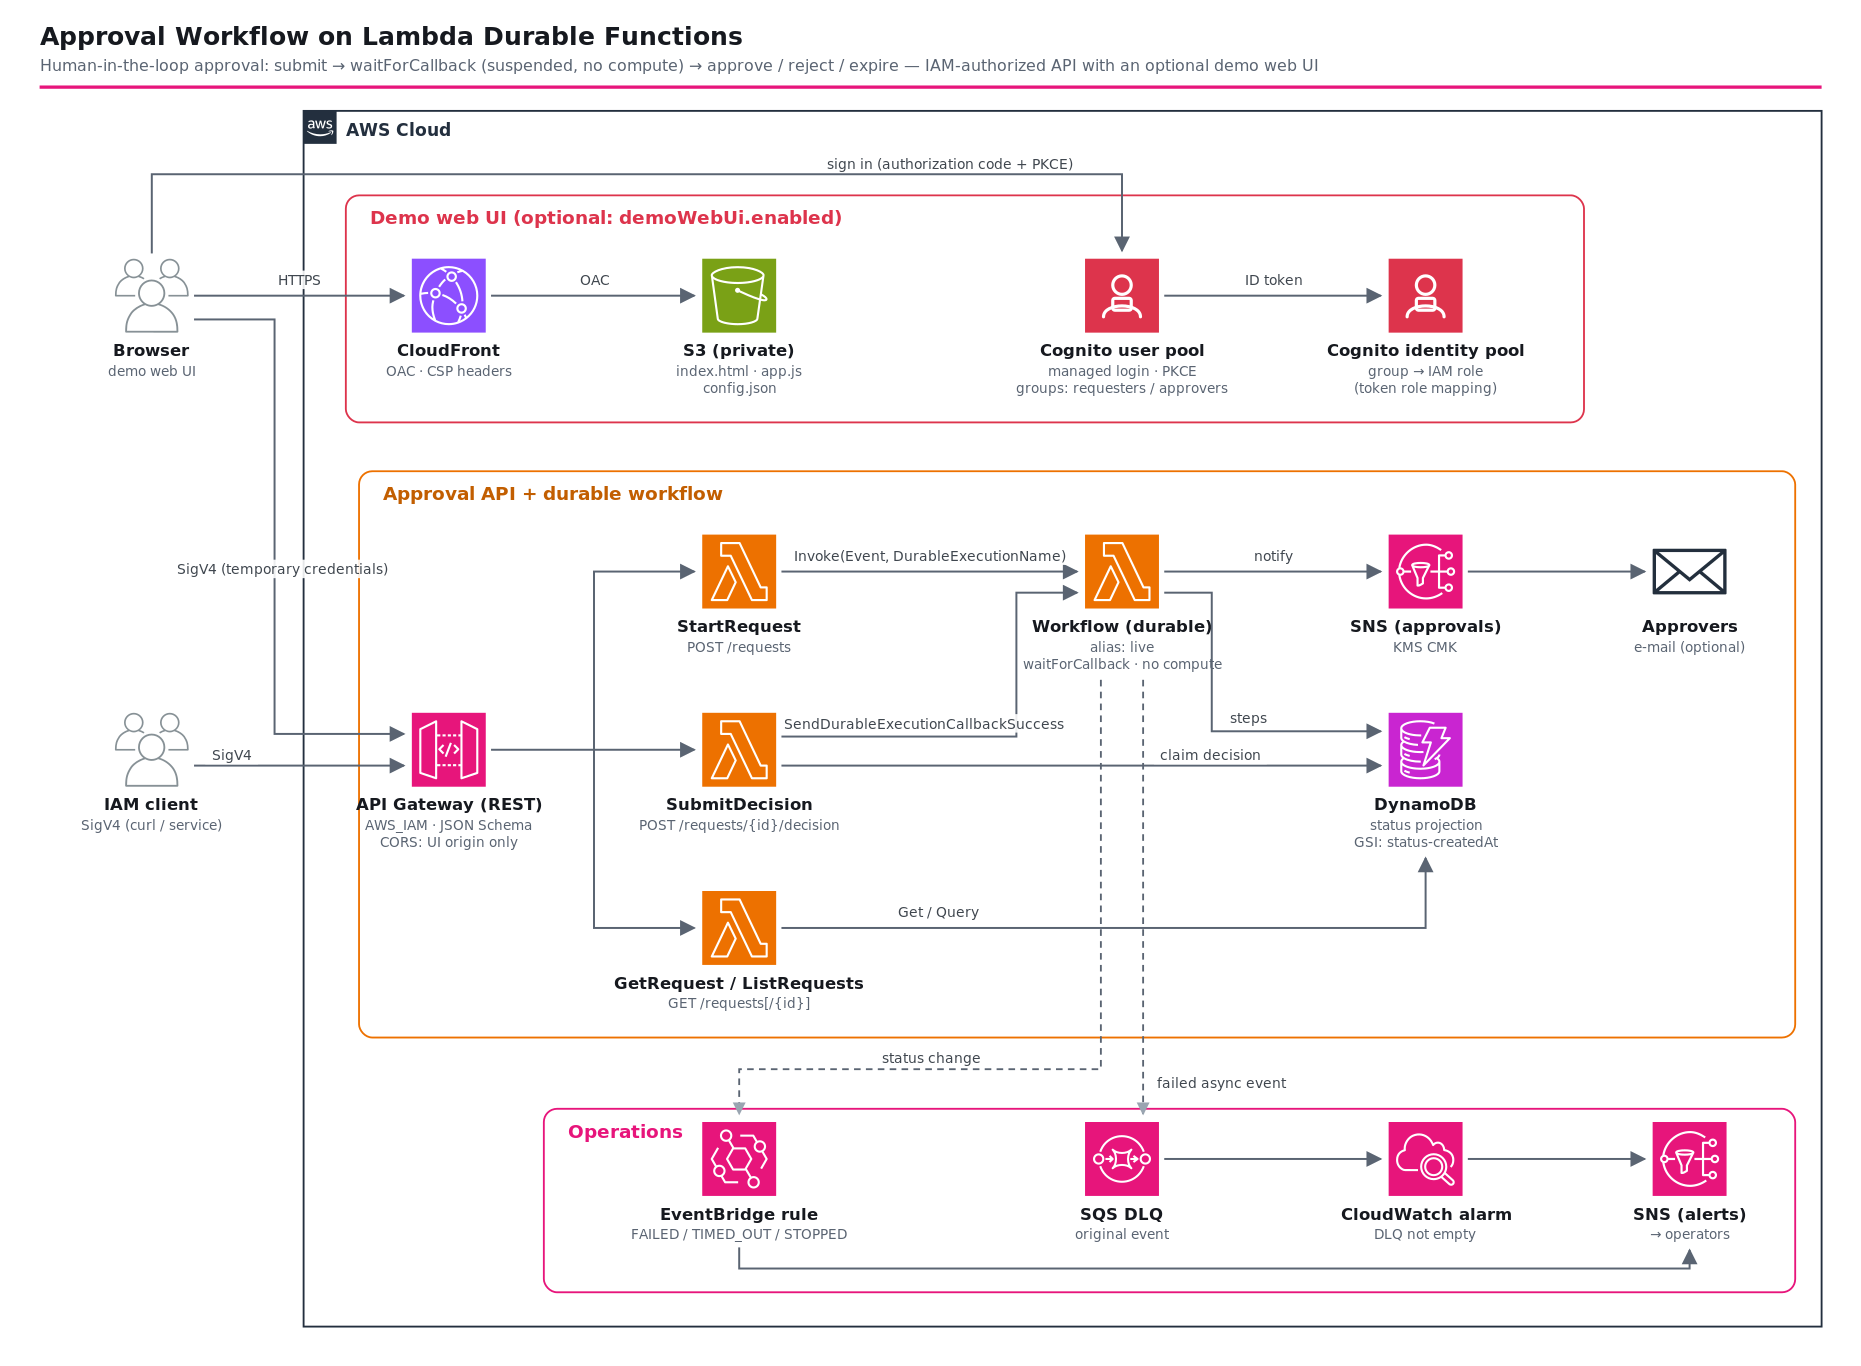
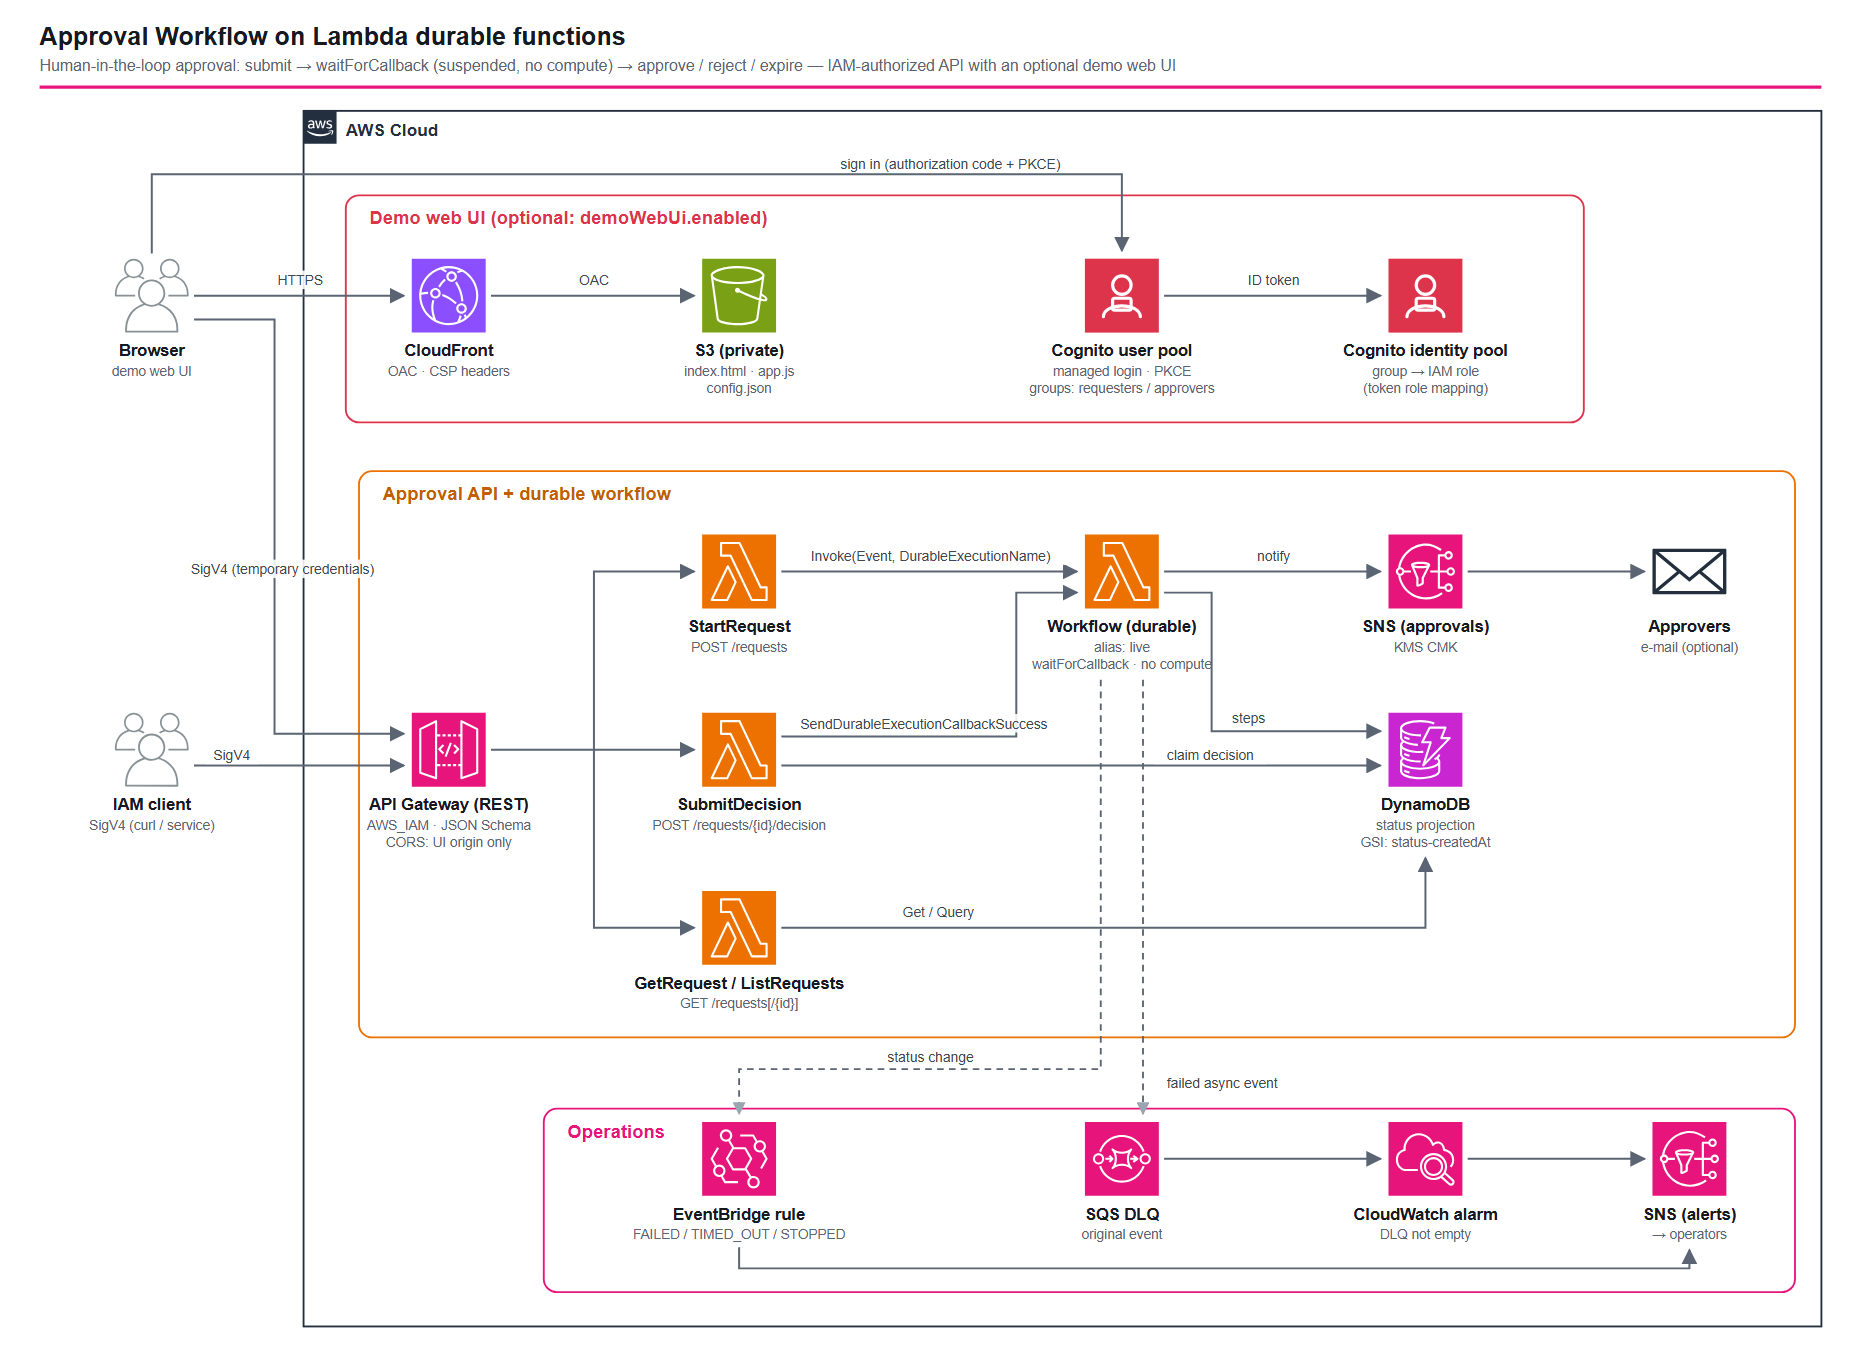
docs(lambda-durable-functions-approval): Lambda durable functions の表記を小文字に統一する

diff --git a/infrastructure/workspaces/lambda-durable-functions-approval/README.md b/infrastructure/workspaces/lambda-durable-functions-approval/README.md
@@ -1,4 +1,4 @@
-# Approval Workflow on Lambda Durable Functions - AWS CDK Reference Architecture
+# Approval Workflow on Lambda durable functions - AWS CDK Reference Architecture
 
 [![🇯🇵 日本語](https://img.shields.io/badge/%F0%9F%87%AF%F0%9F%87%B5-日本語-white)](./README.ja.md)
 [![🇺🇸 English](https://img.shields.io/badge/%F0%9F%87%BA%F0%9F%87%B8-English-white)](./README.md)

diff --git a/docs/knowledge/lambda-durable-functions.md b/docs/knowledge/lambda-durable-functions.md
@@ -1,4 +1,4 @@
-# Lambda Durable Functions — Verified Behaviors
+# Lambda durable functions — Verified Behaviors
 
 Verified while deploy-verifying [`lambda-durable-functions-approval`](../../infrastructure/workspaces/lambda-durable-functions-approval/)
 (ap-northeast-1, `aws-cdk-lib` 2.273.0, `@aws/durable-execution-sdk-js` 2.x, October 2026).
